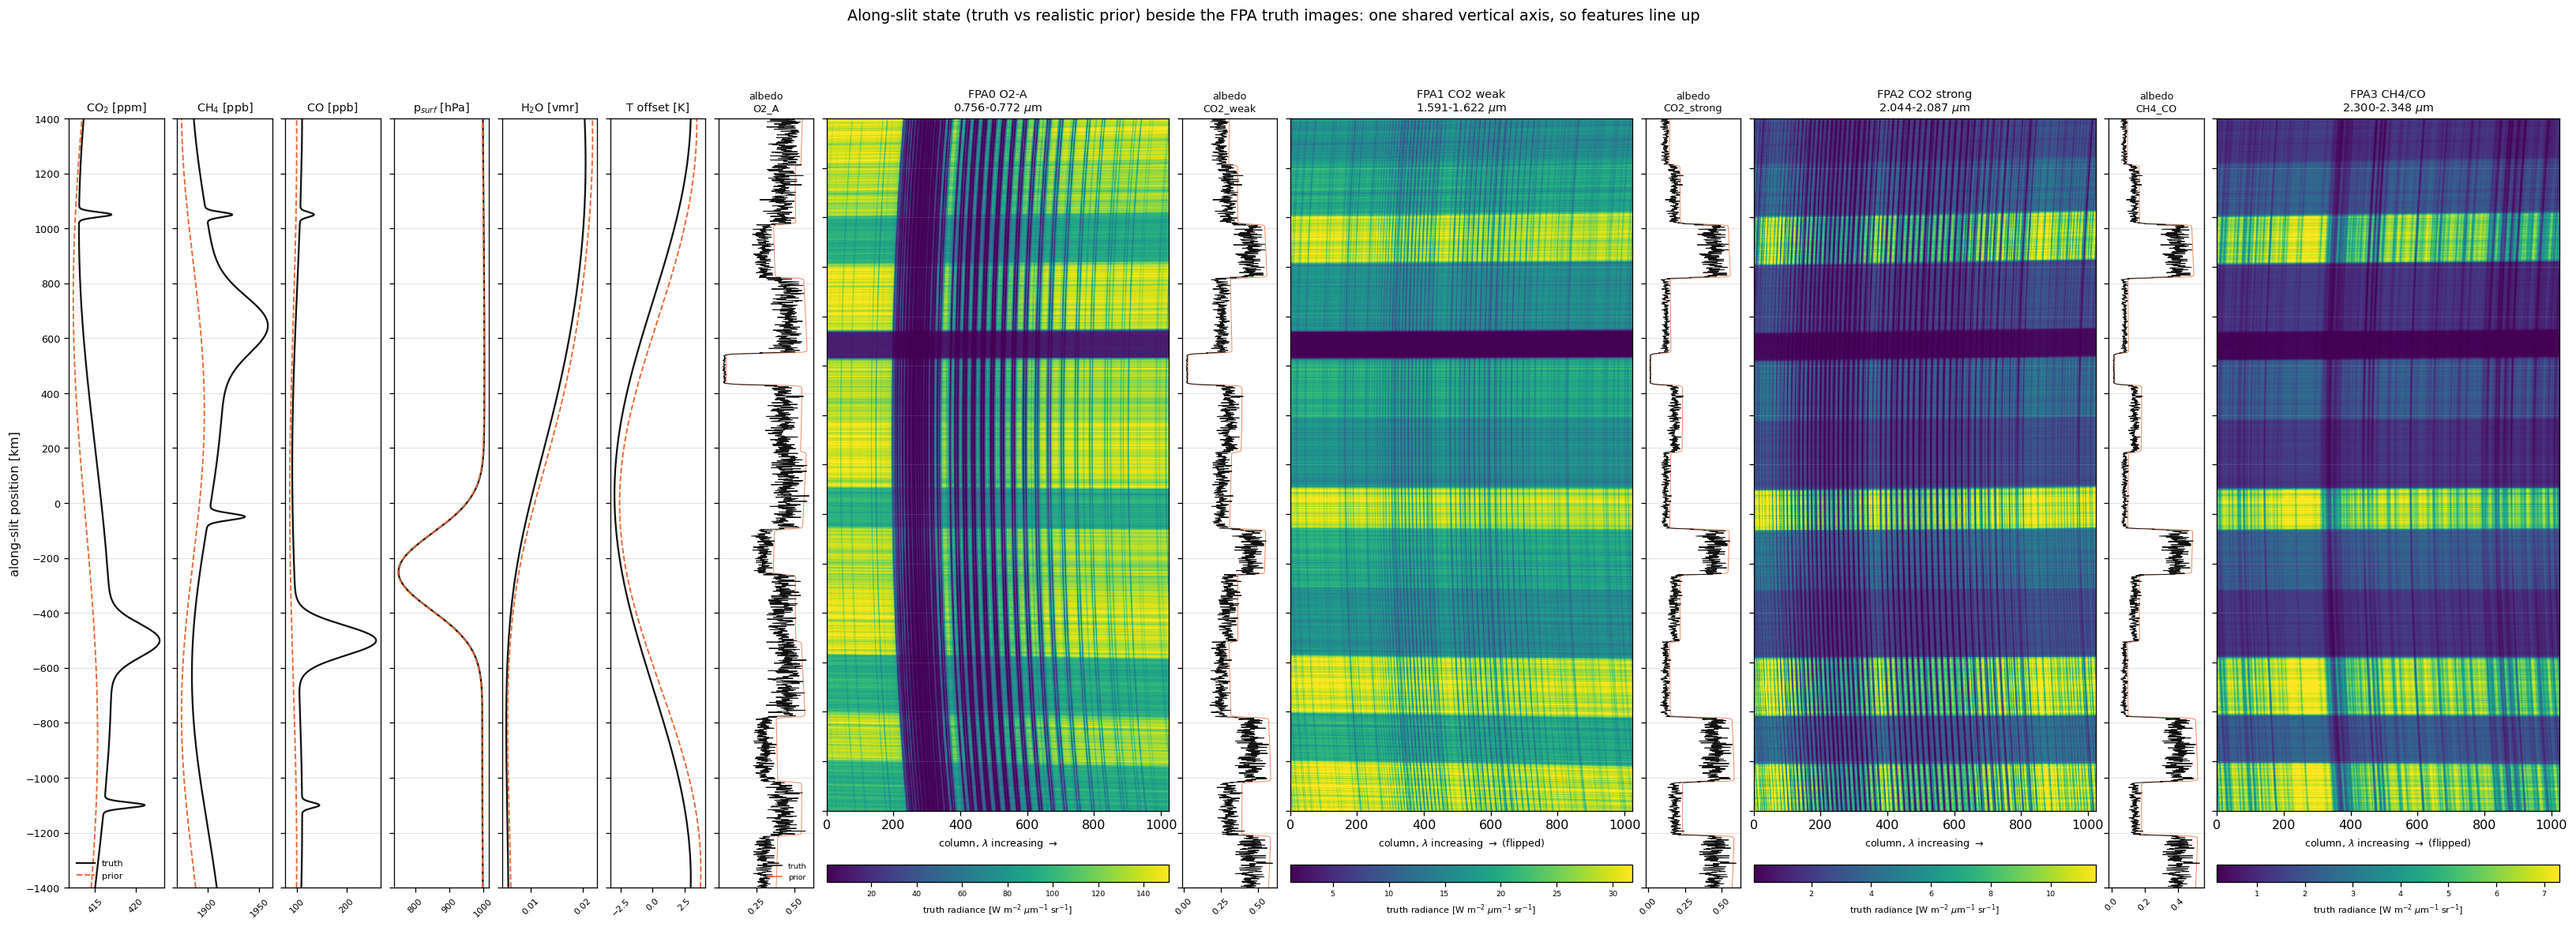
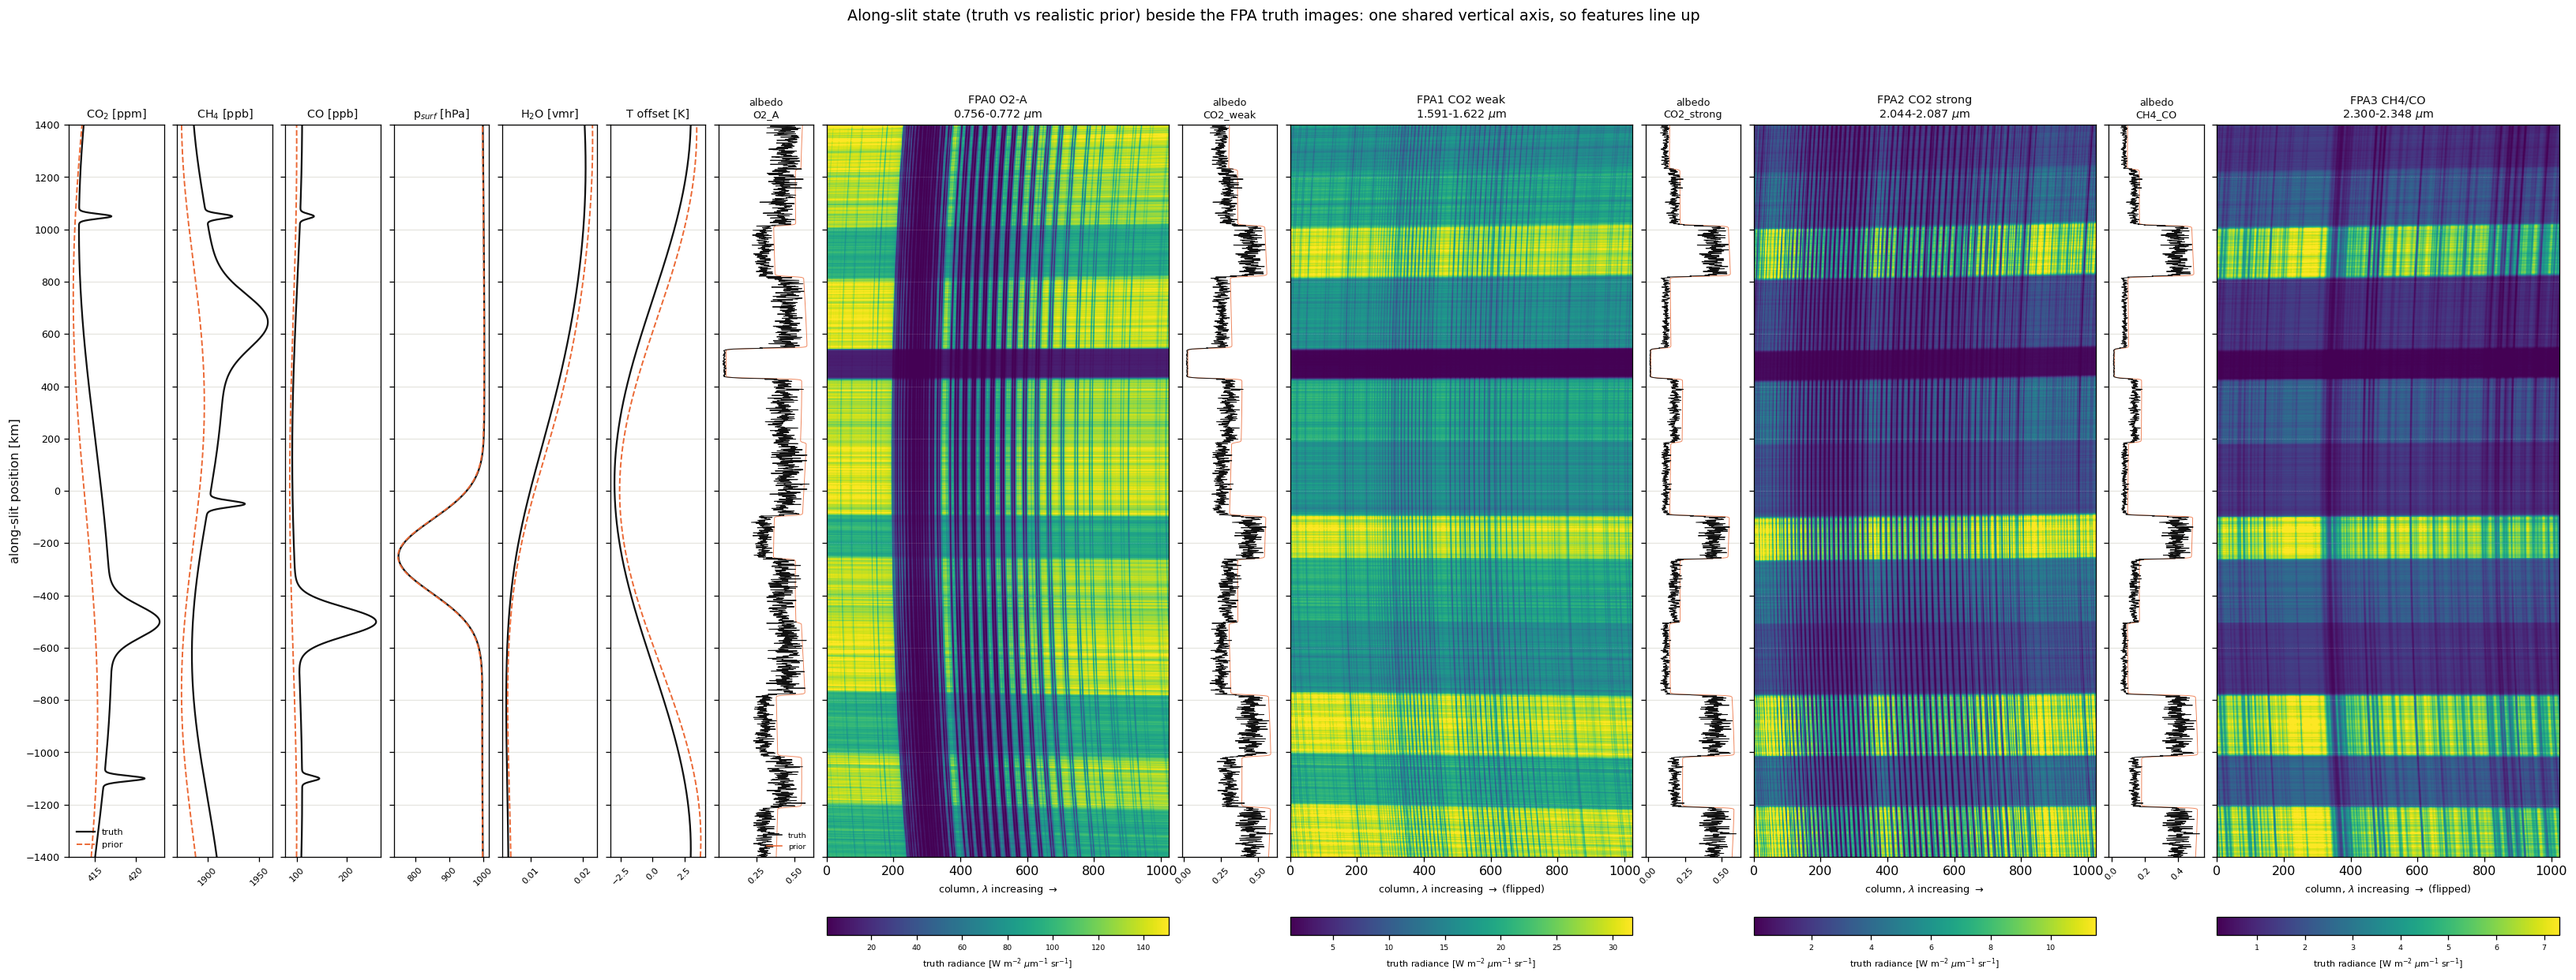
State-profile figure: equal-height panels, colorbars in a separate strip below the grid
Claude-Session: https://claude.ai/code/session_01F6HLSeGTXguZfKDC2CaZzV

diff --git a/scripts/plot_state_with_fpa_images.py b/scripts/plot_state_with_fpa_images.py
@@ -32,8 +32,15 @@ prior_alb = als.SURFACE_PRIOR_FIELD_SETS["realistic"]["albedo"]
 UNIT = "W m$^{-2}$ $\\mu$m$^{-1}$ sr$^{-1}$"
 
 ratios = [1.0] * len(VARS) + [1.0, 3.6] * 4
-fig, axs = plt.subplots(1, len(ratios), figsize=(sum(ratios) * 1.45, 11), sharey=True,
-                        gridspec_kw=dict(width_ratios=ratios, wspace=0.08), constrained_layout=False)
+# Two grid rows: the panels (all the same height, so every FPA image spans exactly the state panels' extent)
+# and a thin strip below them holding the manually placed image colorbars (2026-09-25).
+fig = plt.figure(figsize=(sum(ratios) * 1.45, 11.6))
+gs = fig.add_gridspec(2, len(ratios), width_ratios=ratios, height_ratios=[1.0, 0.025], wspace=0.08, hspace=0.16)
+axs = np.empty(len(ratios), dtype=object)
+for j in range(len(ratios)):
+    axs[j] = fig.add_subplot(gs[0, j], sharey=axs[0] if j else None)
+    if j:
+        plt.setp(axs[j].get_yticklabels(), visible=False)
 ink = "#0b0b0b"
 for a, (name, lab) in zip(axs, VARS):
     a.plot(np.asarray(als.STATE_FIELDS[name](x)), x, color="#111", lw=1.4, label="truth")
@@ -63,7 +70,8 @@ for f in range(4):
                   extent=[0, 1023, eta_c[0] * H, eta_c[-1] * H])
     a.set_title(f"{NAMES[f]}\n{min(lam):.3f}-{max(lam):.3f} $\\mu$m", fontsize=9, color=ink)
     a.set_xlabel("column, $\\lambda$ increasing $\\rightarrow$" + ("" if lam[1] > lam[0] else " (flipped)"), fontsize=8)
-    cb = fig.colorbar(im, ax=a, orientation="horizontal", fraction=0.03, pad=0.07)
+    cax = fig.add_subplot(gs[1, len(VARS) + 2 * f + 1])
+    cb = fig.colorbar(im, cax=cax, orientation="horizontal")
     cb.set_label(f"truth radiance [{UNIT}]", fontsize=7)
     cb.ax.tick_params(labelsize=6)
 axs[len(VARS)].plot([], [], color="#111", lw=1, label="truth")
